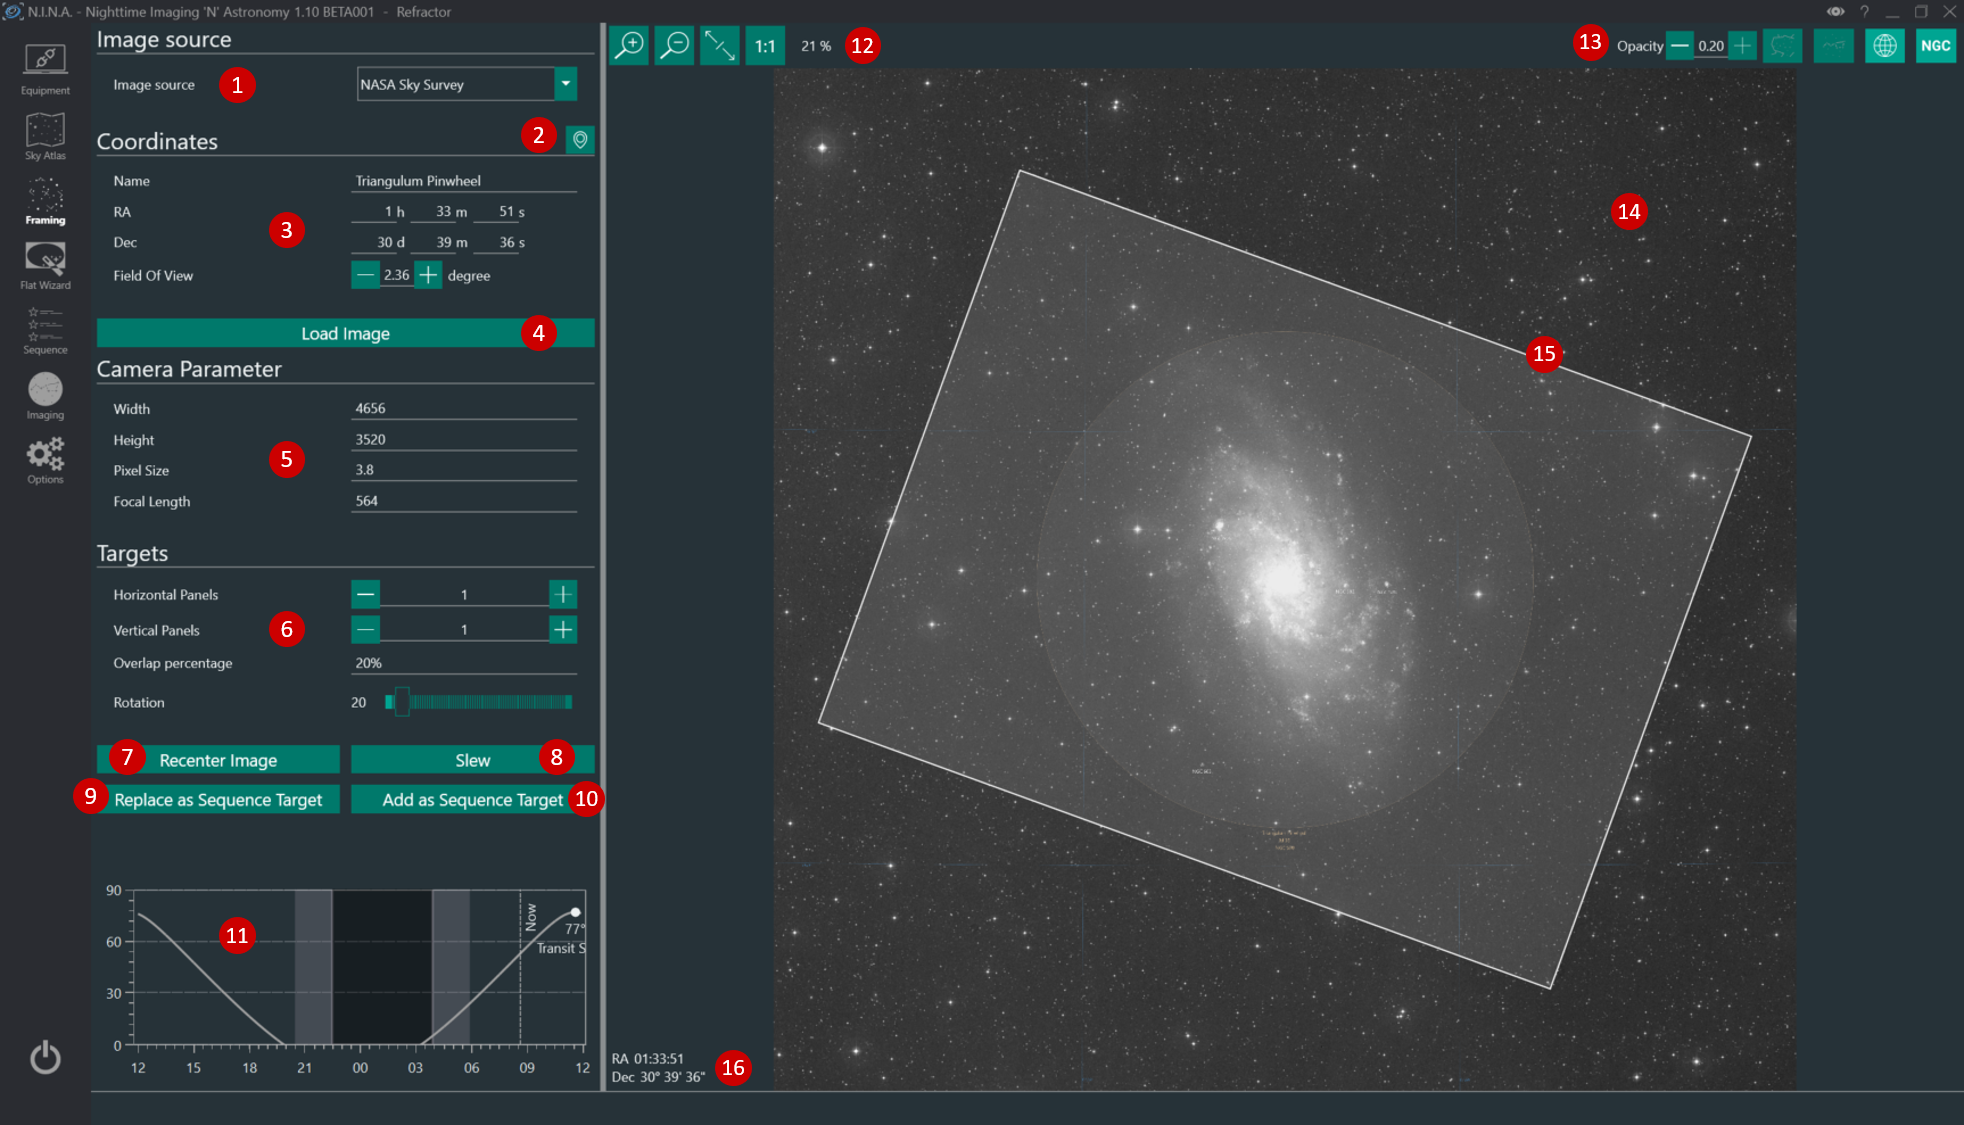
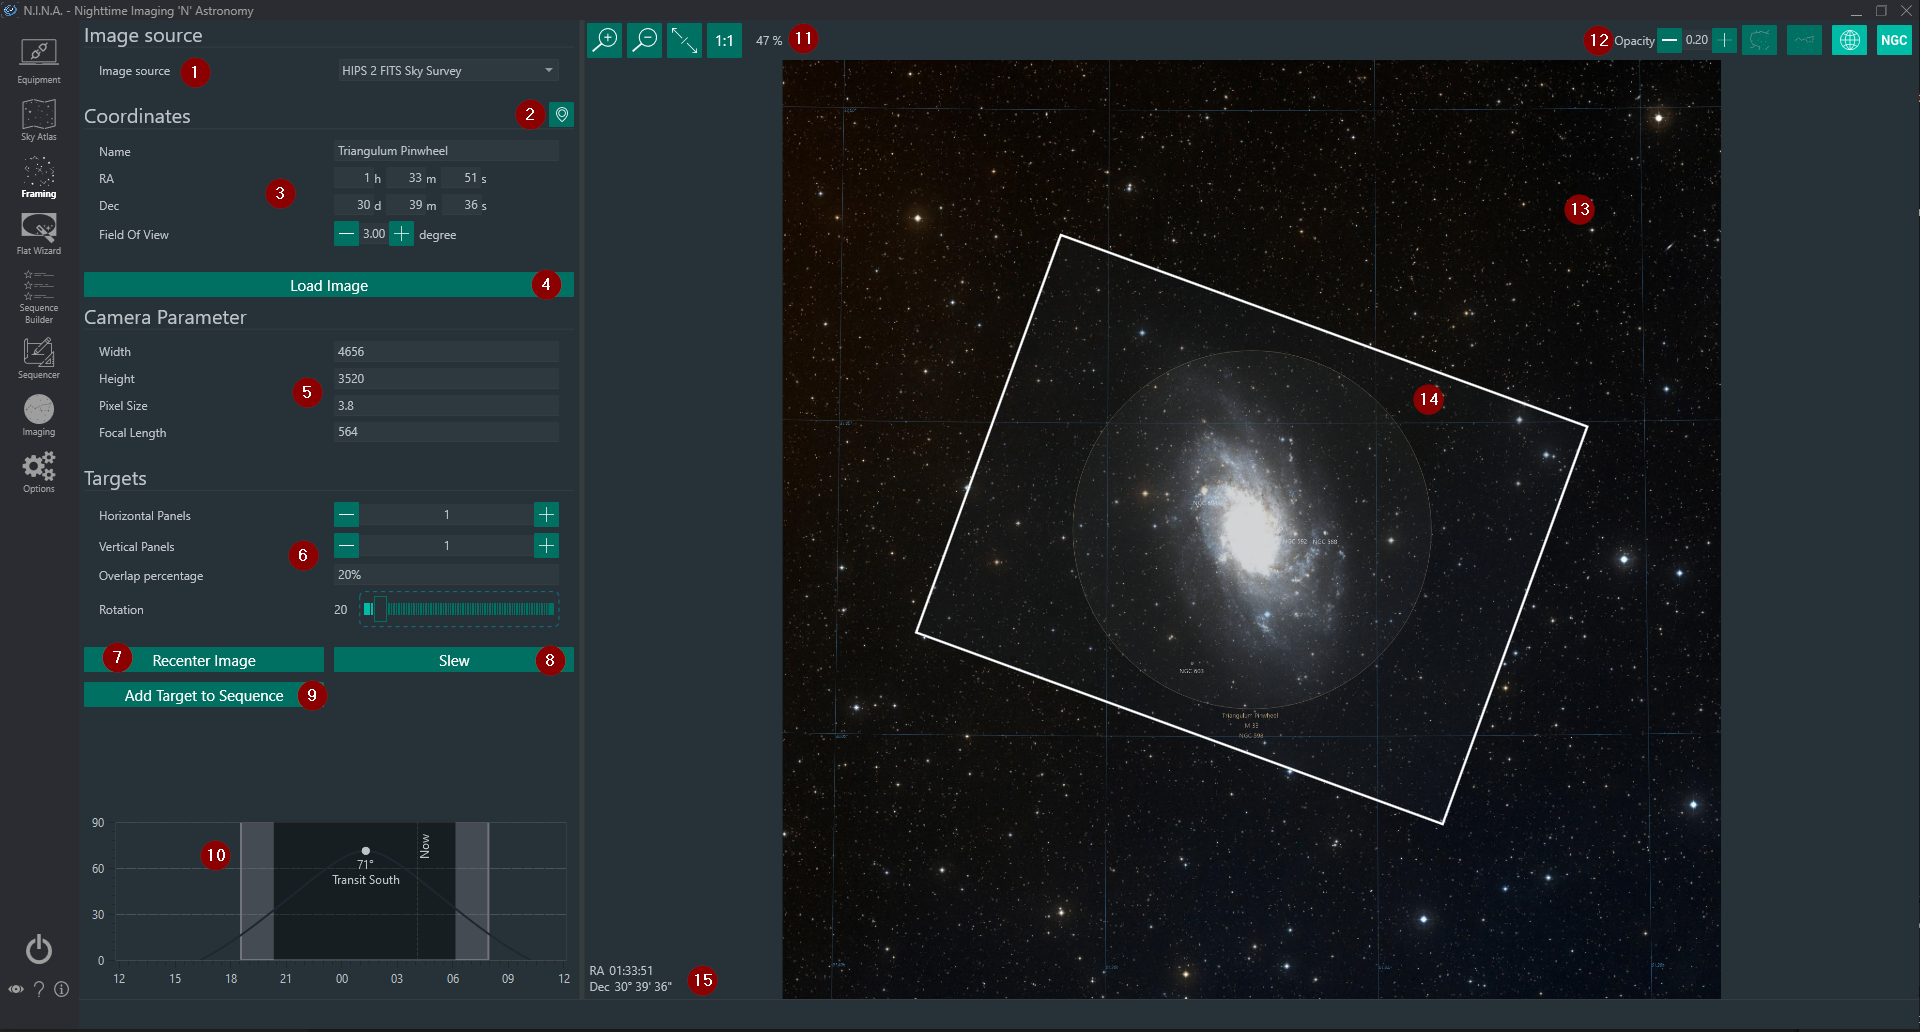
adapt existing tabs with new sequencer layouts

diff --git a/docs/tabs/sequencebuilder.md b/docs/tabs/sequencebuilder.md
@@ -1,14 +1,26 @@
-The Sequences menu enables the creation of a sequence of exposures with various options for automation. The main usage is to set exposure times, filters, and other settings for a total amount of frames to not have to shoot manually and have it stop after a specific amount of frames.
+The Sequences menu enables the batch creation of a sequence of exposures with various options for automation. The main usage is to set exposure times, filters, and other settings for a total amount of frames to not have to shoot manually and have it stop after a specific amount of frames.
 
 For further information about sequencing refer to the [Advanced Sequencing](../advanced/advancedsequence.md) and [Automated Meridian Flip](../advanced/meridianflip.md) topics.
 
 The Sequence interface consists of the following elements:
 
-![The sequencing tab](../images/tabs/Sequence10.png)
+
+## Starting Screen
+![The sequencing starting tab](../images/tabs/Sequence_Empty.png)
+
+1. **Add new Target**  
+    Creates a new tab page for an empty target.
+2. **Load Target**  
+    Load a target from a saved target file.
+3. **Open Target Set**  
+    Load a whole target set consisting of multiple targets.
+4. **Import Target**  
+    Import a list of targets from an external source.
 
 ## Sequence
 
 1. **Sequence Target Tab List**
+![The sequencing tab](../images/tabs/Sequence10.png)
 
     Multiple sequences can be loaded into N.I.N.A., with each residing in its own tab at the top of the Sequence window. When multiple sequences are opened, N.I.N.A. will run each sequence in order after the prior sequence is completed. This allows you to specify multiple targets to image over the course of a night, each with their own settings and behaviors.
 
@@ -51,19 +63,22 @@ The Sequence interface consists of the following elements:
 
 7. **Center target**
 
-    When set to On, N.I.N.A. will use the configured [plate solver](../advanced/platesolving.md) to ensure that the target is centered on the specified RA and Dec coordinates. If a rotation angle is specified and a rotator is configured and connected (See Also: **Equipment > Rotator**), N.I.N.A. will rotate the camera to the desired angle.
+    When set to On, N.I.N.A. will use the configured [plate solver](../advanced/platesolving.md) to ensure that the target is centered on the specified RA and Dec coordinates. 
 
+8. **Rotate Target**
+
+    If a rotation angle is specified and a rotator is configured and connected (See Also: **Equipment > Rotator**), N.I.N.A. will rotate the camera to the desired angle.
     If the Manual Rotator is in use, the sequence will be paused and the user prompted to manually rotate the camera. The prompt will specify the necessary amount of degrees clockwise or anti-clockwise to rotate the camera, and N.I.N.A. will verify the rotation angle again until the angle is within the tolerances configured under **Options > Plate Solving > Rotation Tolerance**.
 
-8. **Estimated Download Time**
+9. **Estimated Download Time**
 
     By default, the value here will be automatically populated with the average download time of a single image from the camera, as measured by N.I.N.A. If the user wishes, this value may be changed by editing it. This time specified here will effect the Estimated Finish Time (7).
 
-9.  **Estimated Finish Time and Estimates time for this target**
+10.  **Estimated Finish Time and Estimates time for this target**
 
     Displays the time and duration (in the computer's configured time zone) that N.I.N.A. estimates the entire sequence/active sequence will complete. This estimation takes into account the number and length of the sequence/sequences exposures, as well as the time required to download each exposure from the camera (See Also: Estimated Download Time.)
 
-10. **Auto Focus behavior and settings**
+111. **Auto Focus behavior and settings**
 
     Due to the large number of auto focus options that can be configured in a sequence, they are grouped under an expandable menu. When the menu is not expanded, a summary of the activated options will be displayed. Expanding the menu by clicking on the arrow will reveal the auto focus settings and make them available for altering.
 
@@ -73,7 +88,7 @@ The Sequence interface consists of the following elements:
 
     * **After HFR increase**: If measured HFR from the previous exposures is more than the specified percent of the baseline, an auto focus operation will be triggered. The baseline HFR is determined from the first exposure after an auto focus operation.
 
-11. **Sequence entries**
+12. **Sequence entries**
 
     Sequence entry define the image acquisition order and behavior of N.I.N.A. Each sequence entry consists of up to 11 columns which determine how the images will be exposed:
 
@@ -91,8 +106,27 @@ The Sequence interface consists of the following elements:
     * **Dither Every # Frame**: Initiates a dither operation after the specified number of frames are exposed
     * **Gain**: Specifies the camera gain to use for the entry. This option is available only if camera is capable of setting exposure gain
     * **Offset**: Specifies the camera offset to use for the entry. This option is available only if camera is capable of setting an exposure offset
-  
-12. **Sequence Buttons**
+
+13. **Target information**
+
+    Displays the target name, RA, Dec, and desired rotation angle. These may be edited as needed. The RA, Dec, and rotation angle specified will be used to slew on sequence start (4) and for centering the target (5)
+
+14. **Object altitude**
+
+    Displays the target object's altitude, the direction point at which it will transit, the darkness phase of the current day, and includes a veritical marker for the current time.  The accuracy of the altitude curve requires that the latitude and longitude be set under **Options > General > Astrometry**.
+
+15. **Send to Framing Assistant and Grab Coordinates button**
+
+    Pressing the button on the left sends the current target coordinates back to the framing assistant.
+    Pressing the button on the right grabs coordinates of the selected object in a supported planetarium application. See **Options > Planetarium > Planetarium Preferences** to configure and select a supported planetarium application.
+
+16. **Start of all Targets Options**
+    Choose from a list of options that should be done at start of sequence
+
+17. **End of all Targets Options**
+    Choose from a list of options that should be executed once a sequence is finished with all targets
+
+18. **Sequence Buttons**
     ![](../images/tabs/Sequencebuttons.JPG)
     From left to right:
     * Adds a new row to the sequence (new rows will be defaulted to the previous one)
@@ -104,26 +138,9 @@ The Sequence interface consists of the following elements:
     * Saves Sequence As
     * Loads a saved Sequence. The opened sequence's settings will overwrite all settings in the current sequence.
 
-    ## Target
-
-13. **Target information**
-
-    Displays the target name, RA, Dec, and desired rotation angle. These may be edited as needed. The RA, Dec, and rotation angle specified will be used to slew on sequence start (4) and for centering the target (5)
-
-14. **Object altitude**
-
-    Displays the target object's altitude, the direction point at which it will transit, the darkness phase of the current day, and includes a veritical marker for the current time.  The accuracy of the altitude curve requires that the latitude and longitude be set under **Options > General > Astrometry**.
-
-15. **Start Sequence**
+19. **Build Sequence**
     
-     Pressing the Start button starts the sequence, either from the beginning or from where it was last stopped or paused. Once a sequence is started, this button will change to separate Pause or Cancel buttons.
-
-    * Pausing will pause the sequence after the current frame completes exposing
-    * Cancel will abort any active operation (including any in-progress exposures) and stop the sequenc3
-
-16. **Grab Coordinates button**
-
-    Pressing this button grabs coordinates of the selected object in a supported planetarium application. See **Options > Planetarium > Planetarium Preferences** to configure and select a supported planetarium application.
+    Pressing this button will build up a sequence and send it to the sequencer tab. To start a sequence, review the created sequence on the sequencer tab and start it from there.
 
 !!! note
-    Sequences cannot be changed while the sequence is running. Changing a sequence's settings require the it to be paused, aborted, or completed.
+    Pressing the build sequence button after having changed something on the sequencer tab will overwrite the whole sequence that was already present in the sequencer tab!

diff --git a/docs/tabs/framing.md b/docs/tabs/framing.md
@@ -50,31 +50,27 @@ For further information about using the Framing Assistant refer to the [Advanced
 8. **Slew**
     * Slews the mount to the coordinates of the center of the framing rectangle (16) 
 
-9.  **Replace as Sequence**
-    * Sets the coordinates of the RA and Dec of the framing window as the sequence and copies the name over to the sequence tab as well 
-    * Replacing the target also resets sequence settings to default 
+9. **Add as Sequence**
+    * Takes the name and coordinates of the RA and Dec of the framing window and adds it as a sequence target for either the sequence builder or the sequencer using a deep sky object template
 
-10. **Add as Sequence**
-    * The same as (9), but the framed target is added as an addition sequence target. This does not affect other sequences
-
-11. **Altitude browser**
+10. **Altitude browser**
     * Displays the altitude of the target over time, indicating current position and meridian 
 
     ## Main tab
 
-12. **Image display controls**
+11. **Image display controls**
     * From left to right: Zoom in, zoom out, fit image to screen, show image in original resolution 
 
-13. **Annotation controls**
+12. **Annotation controls**
     * From left to right: Opacity of framing rectangle, constellation boundaries, constellation annotation, equatorial grid, annotate DSOs 
 
-14. **Image**
+13. **Image**
     * The image as downloaded from the sky survey, cache, Sky Atlas or provided by **From File** 
 
-15. **Framing rectangle**
+14. **Framing rectangle**
     * Depends on the camera and focal length parameters (5) 
     * Can be dragged around with the mouse 
     * Can be rotated with (6) 
  
-16. **RA/DEC Coordinates**
+15. **RA/DEC Coordinates**
     * The coordinates of the center of the framing rectangle. These are used as a sequences target coordinates  

diff --git a/docs/tabs/skyatlas.md b/docs/tabs/skyatlas.md
@@ -41,7 +41,7 @@ The Sky Atlas interface consists of following elements:
 
 8. **Set as Sequence**
 
-    Sets the selected object as a Sequence target
+    Sets the selected object as a Sequence target for the sequence builder or the sequencer using a specific template based on the selection
 
 9. **Set for Framing Assistant**
 
